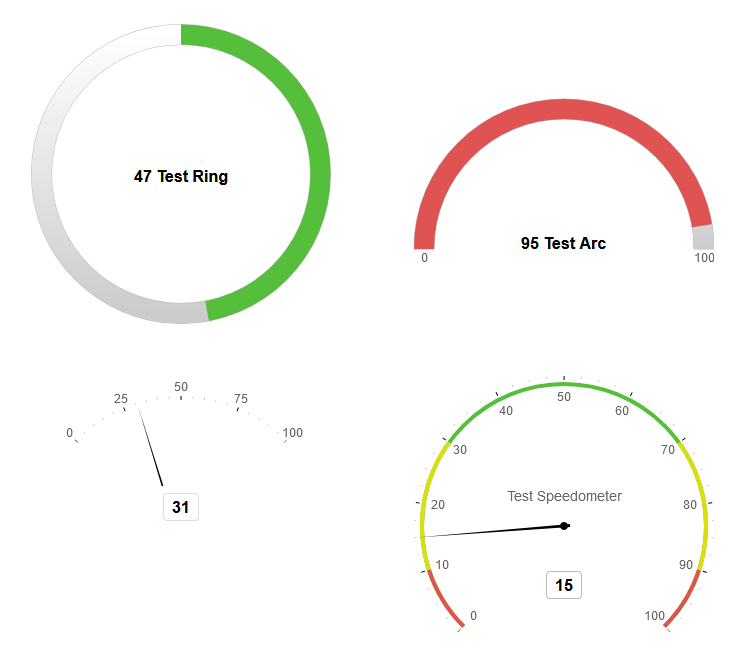
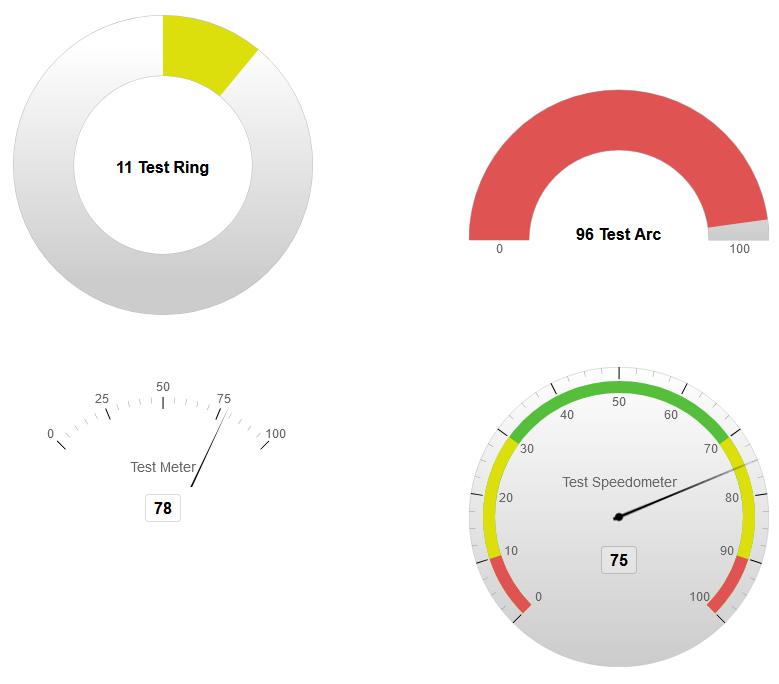
- added scaleup method to scale up default values if the options size differs from defaults - fixed various layout bugs - updated screenshot

diff --git a/src/meter.ts b/src/meter.ts
@@ -1,5 +1,5 @@
 import { AbstractGauge } from './gauge';
-import { getColor, makeSVGElement } from './helpers';
+import { getColor, makeSVGElement, maybeScaleDefaults } from './helpers';
 import './styles/meter.scss';
 
 export interface MeterGaugeOptions {
@@ -33,7 +33,7 @@ export class MeterGauge extends AbstractGauge<MeterGaugeOptions> {
     protected wrapper: HTMLDivElement;
 
     constructor (element: HTMLElement, options: MeterGaugeOptions) {
-        super(options, defaultOptions);
+        super(options, maybeScaleDefaults(defaultOptions, options.size, ["ticks", "subTicks", "circle", "max"]));
 
         const wrapper = document.createElement("div");
         this.wrapper = wrapper;
@@ -43,9 +43,9 @@ export class MeterGauge extends AbstractGauge<MeterGaugeOptions> {
         //setup svg element
         const svg = makeSVGElement("svg");
         wrapper.appendChild(svg);
-        this.addHook(({ size, circle, tickLabelsInside, tickLabelOffset }) => {
+        this.addHook(({ size, circle, tickLabelsInside, tickLabelOffset, sizeScale }) => {
              //XXX: the 1.2 factor is a magic number
-            svg.setAttribute("viewBox", `0 0 ${size} ${circle < .5 ? size * Math.min(1, circle * 1.2) + (tickLabelsInside ? 0 : 2 * (tickLabelOffset || 10)) : size}`);
+            svg.setAttribute("viewBox", `0 0 ${size} ${circle < .5 ? size * Math.min(1, circle * 1.2) + (tickLabelsInside ? 0 : 2 * (tickLabelOffset || 5 * sizeScale)) : size}`);
         }, [ "size", "tickLabelOffset" ])
 
         //various defs
@@ -107,9 +107,9 @@ export class MeterGauge extends AbstractGauge<MeterGaugeOptions> {
         //tick shift group
         const tickShiftGroup = makeSVGElement("g");
         svg.appendChild(tickShiftGroup);
-        this.addHook(({ tickLabelsInside, tickLabelOffset }) => {
-            tickShiftGroup.setAttribute("transform", `translate(0 ${tickLabelsInside ? 0 :  2 * (tickLabelOffset || 10)})`); 
-        }, [ "tickLabelsInside", "tickLabelOffset" ])
+        this.addHook(({ tickLabelsInside, tickLabelOffset, sizeScale }) => {
+            tickShiftGroup.setAttribute("transform", `translate(0 ${tickLabelsInside ? 0 :  2 * (tickLabelOffset || 5 * sizeScale)})`); 
+        }, [ "tickLabelsInside", "tickLabelOffset", "size" ])
 
         //bg 
         const bg = makeSVGElement("circle"); 
@@ -126,7 +126,7 @@ export class MeterGauge extends AbstractGauge<MeterGaugeOptions> {
             bg.setAttribute("fill", `url(#${gradientID})`);
         }, [ "id" ])
         this.addHook(({ circle }) => {
-            bg.setAttribute("visibility", circle > .5 ? null : "hidden");
+            bg.setAttribute("visibility", circle > .5 ? "" : "hidden");
         }, [ "circle" ])
 
         //scale
@@ -136,7 +136,7 @@ export class MeterGauge extends AbstractGauge<MeterGaugeOptions> {
             scaleGroup.setAttribute("fill", `url(#${maskID})`);
         }, [ "id" ])
         this.addHook(({ steps }) => {
-            scaleGroup.setAttribute("visibility", steps ? null : "hidden");
+            scaleGroup.setAttribute("visibility", steps ? "" : "hidden");
         }, [ "steps" ])
 
         const scaleOK = makeSVGElement("path");
@@ -231,10 +231,10 @@ export class MeterGauge extends AbstractGauge<MeterGaugeOptions> {
         this.addHook(({ label: lbl }) => {
             label.innerHTML = lbl;
         }, [ "label" ])
-        this.addHook(({ hs }) => {
+        this.addHook(({ size, hs, circle }) => {
             label.setAttribute("x", hs);
-            label.setAttribute("y", `${hs - 25}`);
-        }, [ "size" ])
+            label.setAttribute("y", `${size * Math.min(.4, circle)}`);
+        }, [ "size", "circle" ])
 
         //needle
         const needleGroup = makeSVGElement("g");
@@ -274,11 +274,12 @@ export class MeterGauge extends AbstractGauge<MeterGaugeOptions> {
     protected updateData(combinedOptions: MeterGaugeOptions) {
         const { value, size, color, id, thickness, steps, tickLabelsInside, circle, max, ticks, subTicks, tickLabelOffset } = combinedOptions;
 
+        const sizeScale = size / 100;
         //precalculate various values
         const r = (size - thickness) * .5;
         const tr = r + thickness * .25;
         const ir = r - thickness - 2;
-        const tlr = r + (tickLabelOffset || (tickLabelsInside ? -20 : 10));
+        const tlr = r + (tickLabelOffset || ((tickLabelsInside ? -10 : 5) * sizeScale));
         const circumference = 2 * Math.PI * r * circle;
         const tickCircumference = 2 * Math.PI * tr * circle;
         const innerCircumference =  2 * Math.PI * ir * circle;
@@ -314,7 +315,7 @@ export class MeterGauge extends AbstractGauge<MeterGaugeOptions> {
         const leftScale = ht + thickness + 2 + iinset;
         const rightScale = size - ht - thickness - 2 - iinset;
         const scaleHeight = Math.sqrt(ir * ir - Math.pow(ir - iinset, 2));
-        const bottomScale = (circle >= .5 ? ir + scaleHeight : ir - scaleHeight) + thickness + 4;
+        const bottomScale = (circle >= .5 ? ir + scaleHeight : ir - scaleHeight) + thickness + thickness * .5 + 2;
     
         const ticksHeight = Math.sqrt(tr * tr - Math.pow(tr - tinset, 2));
         const bottomTicks = (circle >= .5 ? tr + ticksHeight : tr - ticksHeight) + thickness * .25;
@@ -352,6 +353,7 @@ export class MeterGauge extends AbstractGauge<MeterGaugeOptions> {
             maskID,
             markerID,
             gradientID,
+            sizeScale,
             color: color || getColor(value, steps)
         };
     }

diff --git a/src/arc.ts b/src/arc.ts
@@ -1,5 +1,5 @@
 import { AbstractGauge } from './gauge';
-import { getColor, makeSVGElement } from './helpers';
+import { getColor, makeSVGElement, maybeScaleDefaults } from './helpers';
 import './styles/arc.scss';
 
 export interface ArcGaugeOptions {
@@ -23,7 +23,7 @@ const defaultOptions:Partial<ArcGaugeOptions> = {
 export class ArcGauge extends AbstractGauge<ArcGaugeOptions> {
 
     constructor (element: HTMLElement, options: ArcGaugeOptions) {
-        super(options, defaultOptions);
+        super(options, maybeScaleDefaults(defaultOptions, options.size));
 
         const wrapper = document.createElement("div");
         wrapper.classList.add("ui-gauge");
@@ -116,10 +116,9 @@ export class ArcGauge extends AbstractGauge<ArcGaugeOptions> {
         rect.setAttribute("y", "0");
         innerGroup.appendChild(rect);
         this.addHook(({ size }) => {
-            innerGroup.setAttribute("width", size);
-            innerGroup.setAttribute("height", size);
+            rect.setAttribute("width", size);
+            rect.setAttribute("height", size);
         }, [ "size" ])
-
 
         const bg = makeSVGElement("path");
         bg.classList.add("ui-gauge-arc__bg");
@@ -131,7 +130,6 @@ export class ArcGauge extends AbstractGauge<ArcGaugeOptions> {
         this.addHook(({ gradientID }) => {
             bg.setAttribute("stroke", `url(#${gradientID})`);
         }, [ "id" ]);
-
 
         const fg = makeSVGElement("path");
         fg.classList.add("ui-gauge-arc__fg");

diff --git a/src/helpers.ts b/src/helpers.ts
@@ -25,3 +25,19 @@ const xmlns = "http://www.w3.org/2000/svg";
 export function makeSVGElement<T extends SVGElement>(name: string) {
     return document.createElementNS(xmlns, name) as T;
 }
+
+export function maybeScaleDefaults<T extends { size?: number }>(options: T, size: number, skip: (keyof T)[] = []):T {
+    if (size && options.size && size != options.size) {
+        const out: T = {...options};
+        const scale = size / options.size;
+        for(let k in out) {
+            if(!skip.includes(k) && typeof out[k] === "number") {
+                //@ts-ignore
+                out[k] *= scale;
+            }
+        }
+        return out;
+    } else {
+        return options;
+    }
+}

diff --git a/src/ring.ts b/src/ring.ts
@@ -1,5 +1,5 @@
 import { AbstractGauge } from './gauge';
-import { getColor, makeSVGElement } from './helpers';
+import { getColor, makeSVGElement, maybeScaleDefaults } from './helpers';
 import './styles/ring.scss';
 
 export interface RingGaugeOptions {
@@ -23,7 +23,7 @@ const defaultOptions:Partial<RingGaugeOptions> = {
 export class RingGauge extends AbstractGauge<RingGaugeOptions> {
 
     constructor (element: HTMLElement, options: RingGaugeOptions) {
-        super(options, defaultOptions);
+        super(options, maybeScaleDefaults(defaultOptions, options.size));
 
         const wrapper = document.createElement("div");
         wrapper.classList.add("ui-gauge");

diff --git a/demo.html b/demo.html
@@ -54,7 +54,7 @@
                 max: 100,
                 size: 300, 
                 label: "Test Speedometer",
-                steps: [10,30,70,90]
+                steps: [10,30,70,90],
             });
 
             setInterval(function() {

diff --git a/src/speedometer.ts b/src/speedometer.ts
@@ -1,3 +1,4 @@
+import { maybeScaleDefaults } from './helpers';
 import { MeterGauge, MeterGaugeOptions } from './meter';
 import './styles/speedometer.scss';
 
